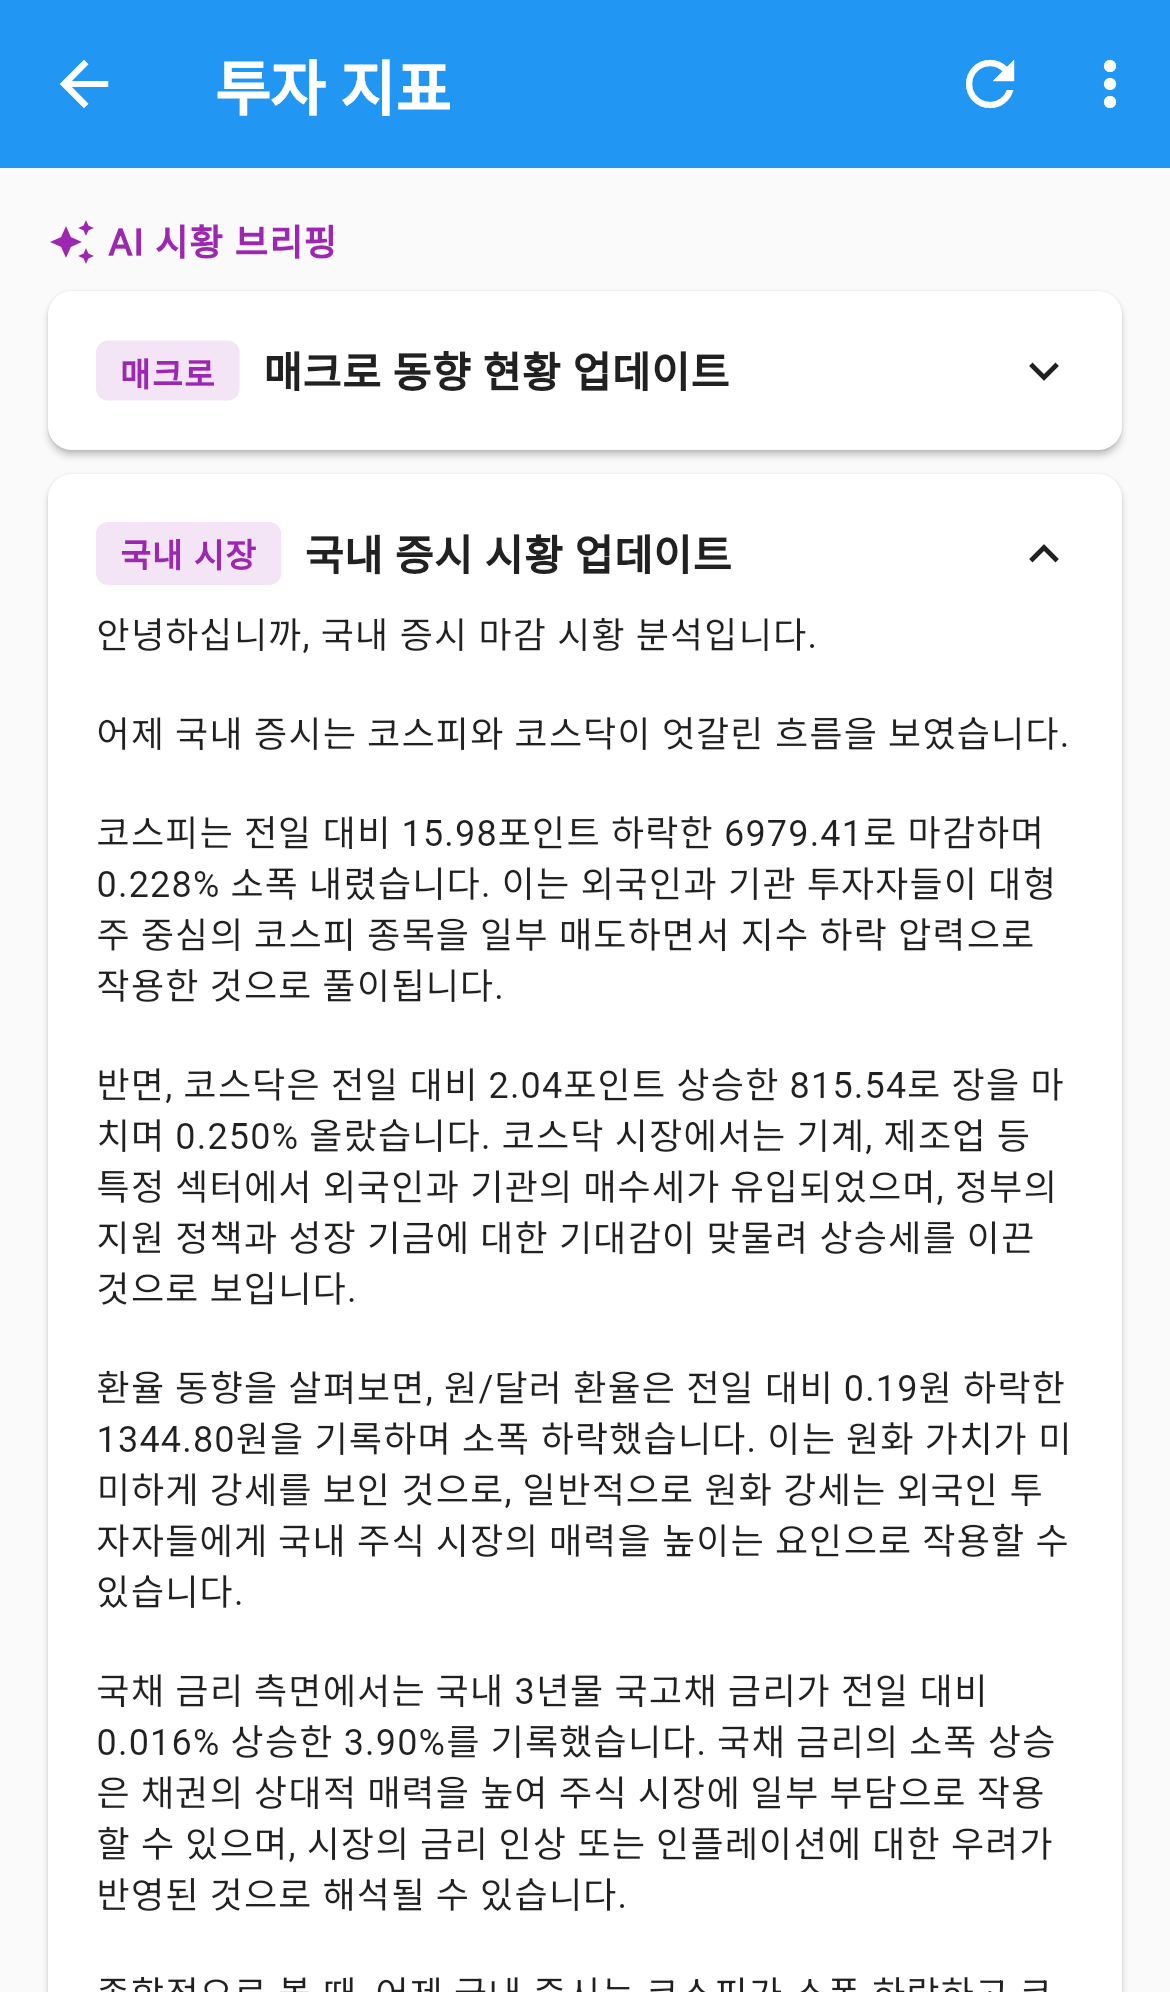
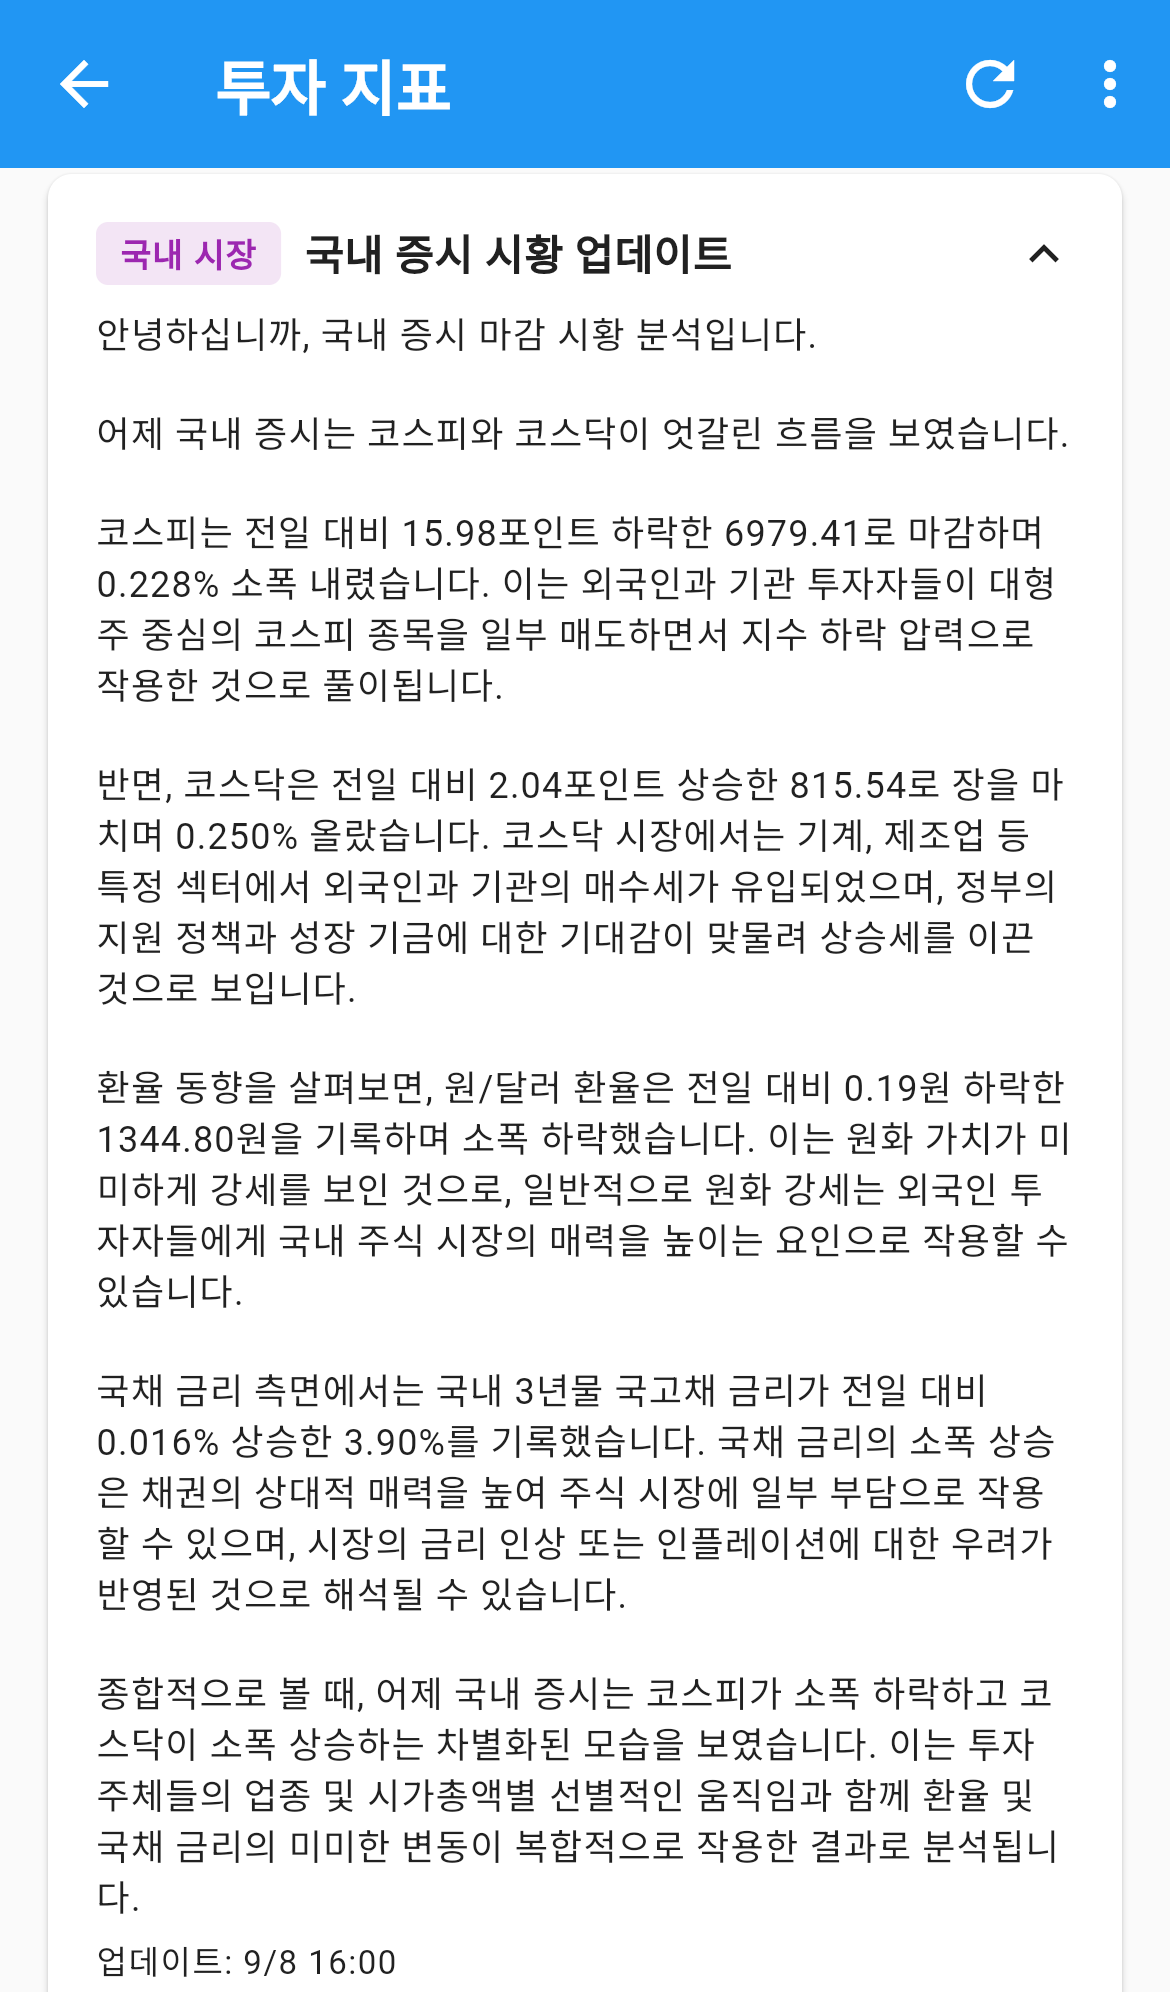
AI 시황 브리핑 스크린샷에서 생성 실패한 카드를 화면 밖으로
매크로 카드는 본문이 "죄송합니다. 요청을 처리하는 중에 문제가 발생했습니다."로
저장돼 있어 매뉴얼에 담지 않습니다. 국내 시장 카드를 펼친 뒤 살짝 스크롤해
매크로 카드가 프레임에 들어오지 않게 찍었습니다.

덕분에 브리핑 본문이 처음부터 끝까지 한 장에 담기고 "업데이트: 9/8 16:00"
갱신 시각까지 보입니다. 매뉴얼의 갱신 시각 예시도 화면과 맞췄습니다.

diff --git a/docs/manual/investment/index.md b/docs/manual/investment/index.md
@@ -71,7 +71,7 @@ screenshots: 7
 "코스피는 15.98포인트 하락… 외국인과 기관이 대형주를 일부 매도하면서" 처럼요.
 환율·국고채 금리 같은 관련 지표도 함께 짚어줍니다.
 
-본문 맨 아래에 `업데이트: 9/9 07:30` 형태로 **언제 만들어진 브리핑인지** 나옵니다.
+본문 맨 아래에 `업데이트: 9/8 16:00` 형태로 **언제 만들어진 브리핑인지** 나옵니다.
 카드를 다시 누르면 접힙니다.
 
 브리핑이 아직 만들어지지 않았으면 이 구역은 **아예 표시되지 않습니다.**
